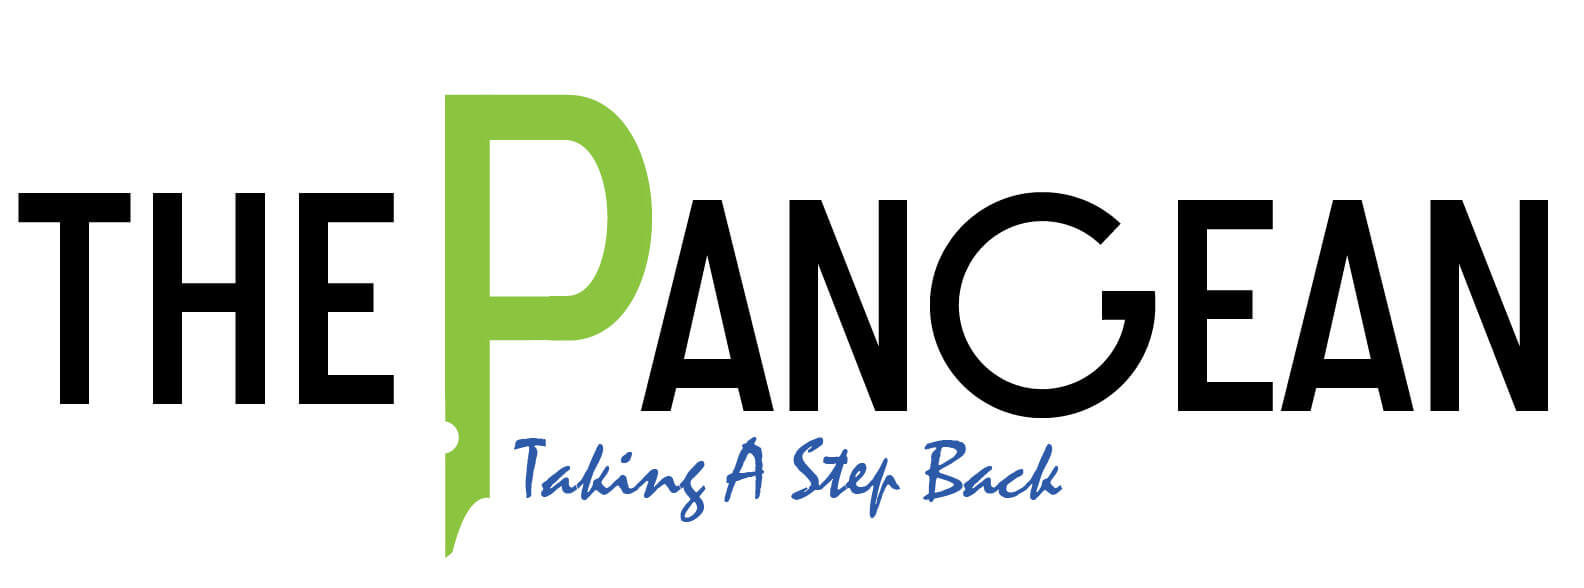
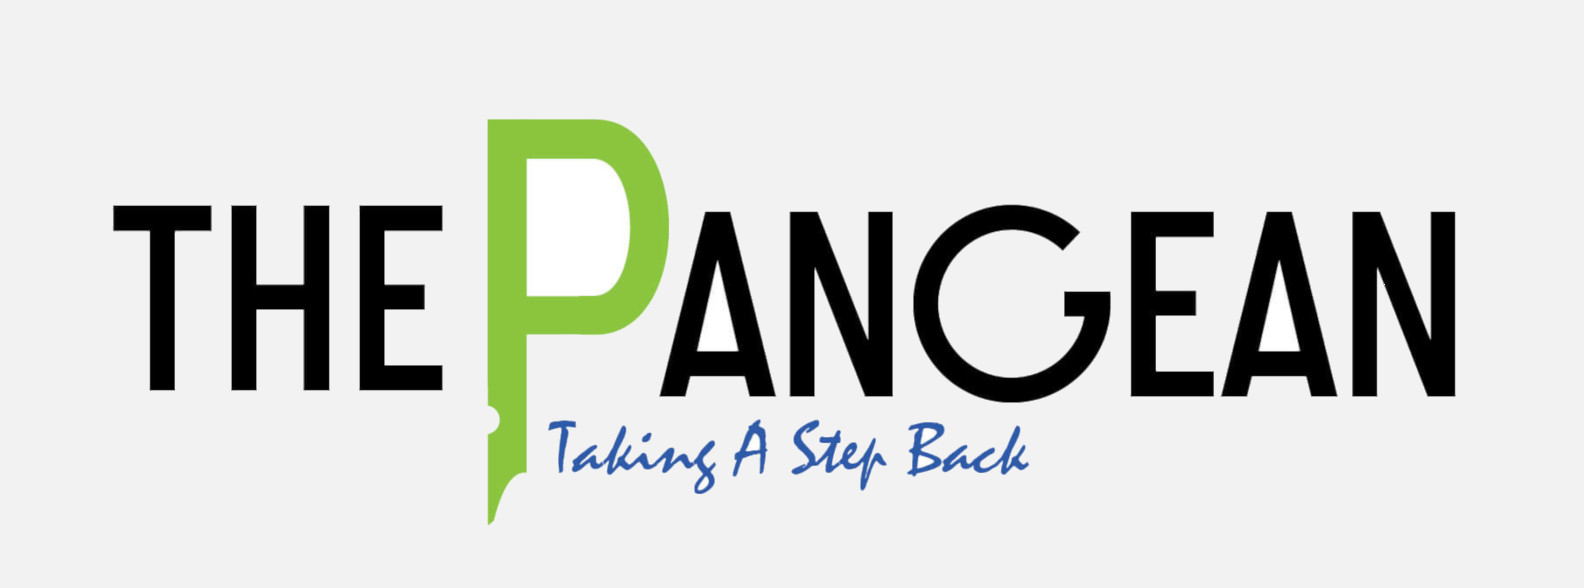
google search description meta tag, resize blog covers to fit in twitter cards better, updated the sports blog cover

Changed region(s): [[0.0, 0.1531, 0.9899, 0.949]]

diff --git a/index.html b/index.html
@@ -4,11 +4,12 @@ current: home
 class: 'home-template'
 navigation: True
 cover: blog-cover.jpg
+description: Taking a step back, The Pangean is a newspaper that seeks to herald a revolution in media. It has no ideological persuasion, welcoming diverse opinions on all kinds of subjects.
 ---
 
 <meta name="twitter:card" content="summary_large_image" />
 <meta name="twitter:image" content="{{ site.production_url }}assets/images/{{ page.cover }}" />
-<meta name="Description" content="Taking a step back, The Pangean is a newspaper that seeks to herald a revolution in media. It has no ideological persuasion in the articles it puts forth, welcoming diverse opinions on all kinds of subjects." />
+
 
 <!-- < default -->
 <!-- The tag above means: insert everything in this file

diff --git a/sports/index.html b/sports/index.html
@@ -9,7 +9,6 @@ cover: blog-cover-sports.jpg
 
 <meta name="twitter:card" content="summary_large_image" />
 <meta name="twitter:image" content="{{ site.production_url }}assets/images/{{ page.cover }}" />
-<meta name="Description" content="Taking a step back, The Pangean is a newspaper that seeks to herald a revolution in media. It has no ideological persuasion in the articles it puts forth, welcoming diverse opinions on all kinds of subjects." />
 
 <!-- < default -->
 <!-- The tag above means: insert everything in this fileassets/images/{{ page.cover }}

diff --git a/_layouts/default.html b/_layouts/default.html
@@ -22,6 +22,10 @@
     <link rel="stylesheet" href="//cdnjs.cloudflare.com/ajax/libs/highlight.js/9.12.0/styles/default.min.css">
     <style>.hljs { background: none; }</style>
 
+    {% if page.description %}
+    <meta name="description" content="{{ page.description }}">
+    {% endif %}
+
     <!--[if IE]>
         <style>
             p, ol, ul{
